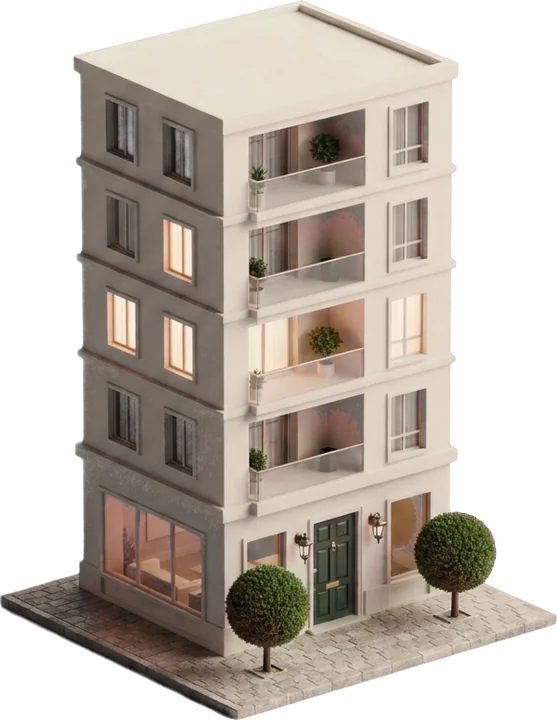
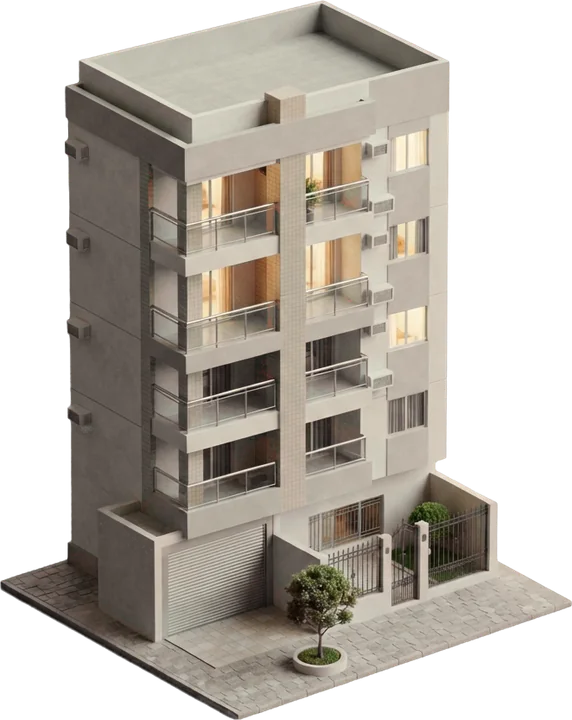
preview: casa e prédio com cara de Sul do Brasil
Casa térrea com telha cerâmica, varanda e muro com grade; prédio
residencial de interior de SC com sacadas e garagem.

diff --git a/components/render-3d.tsx b/components/render-3d.tsx
@@ -4,13 +4,13 @@ import Image from "next/image";
 // gerados por IA no estilo de miniatura realista de estúdio e recortados.
 // Proporção de cada arquivo, para o navegador reservar o espaço certo.
 export const RENDERS_3D = {
-  casa: [695, 720],
+  casa: [720, 488],
   caminhao: [720, 603],
   chave: [720, 444],
   caixa: [590, 720],
   lupa: [353, 720],
   pin: [610, 720],
-  predio: [557, 720],
+  predio: [572, 720],
 } as const;
 
 export type Render3DNome = keyof typeof RENDERS_3D;
